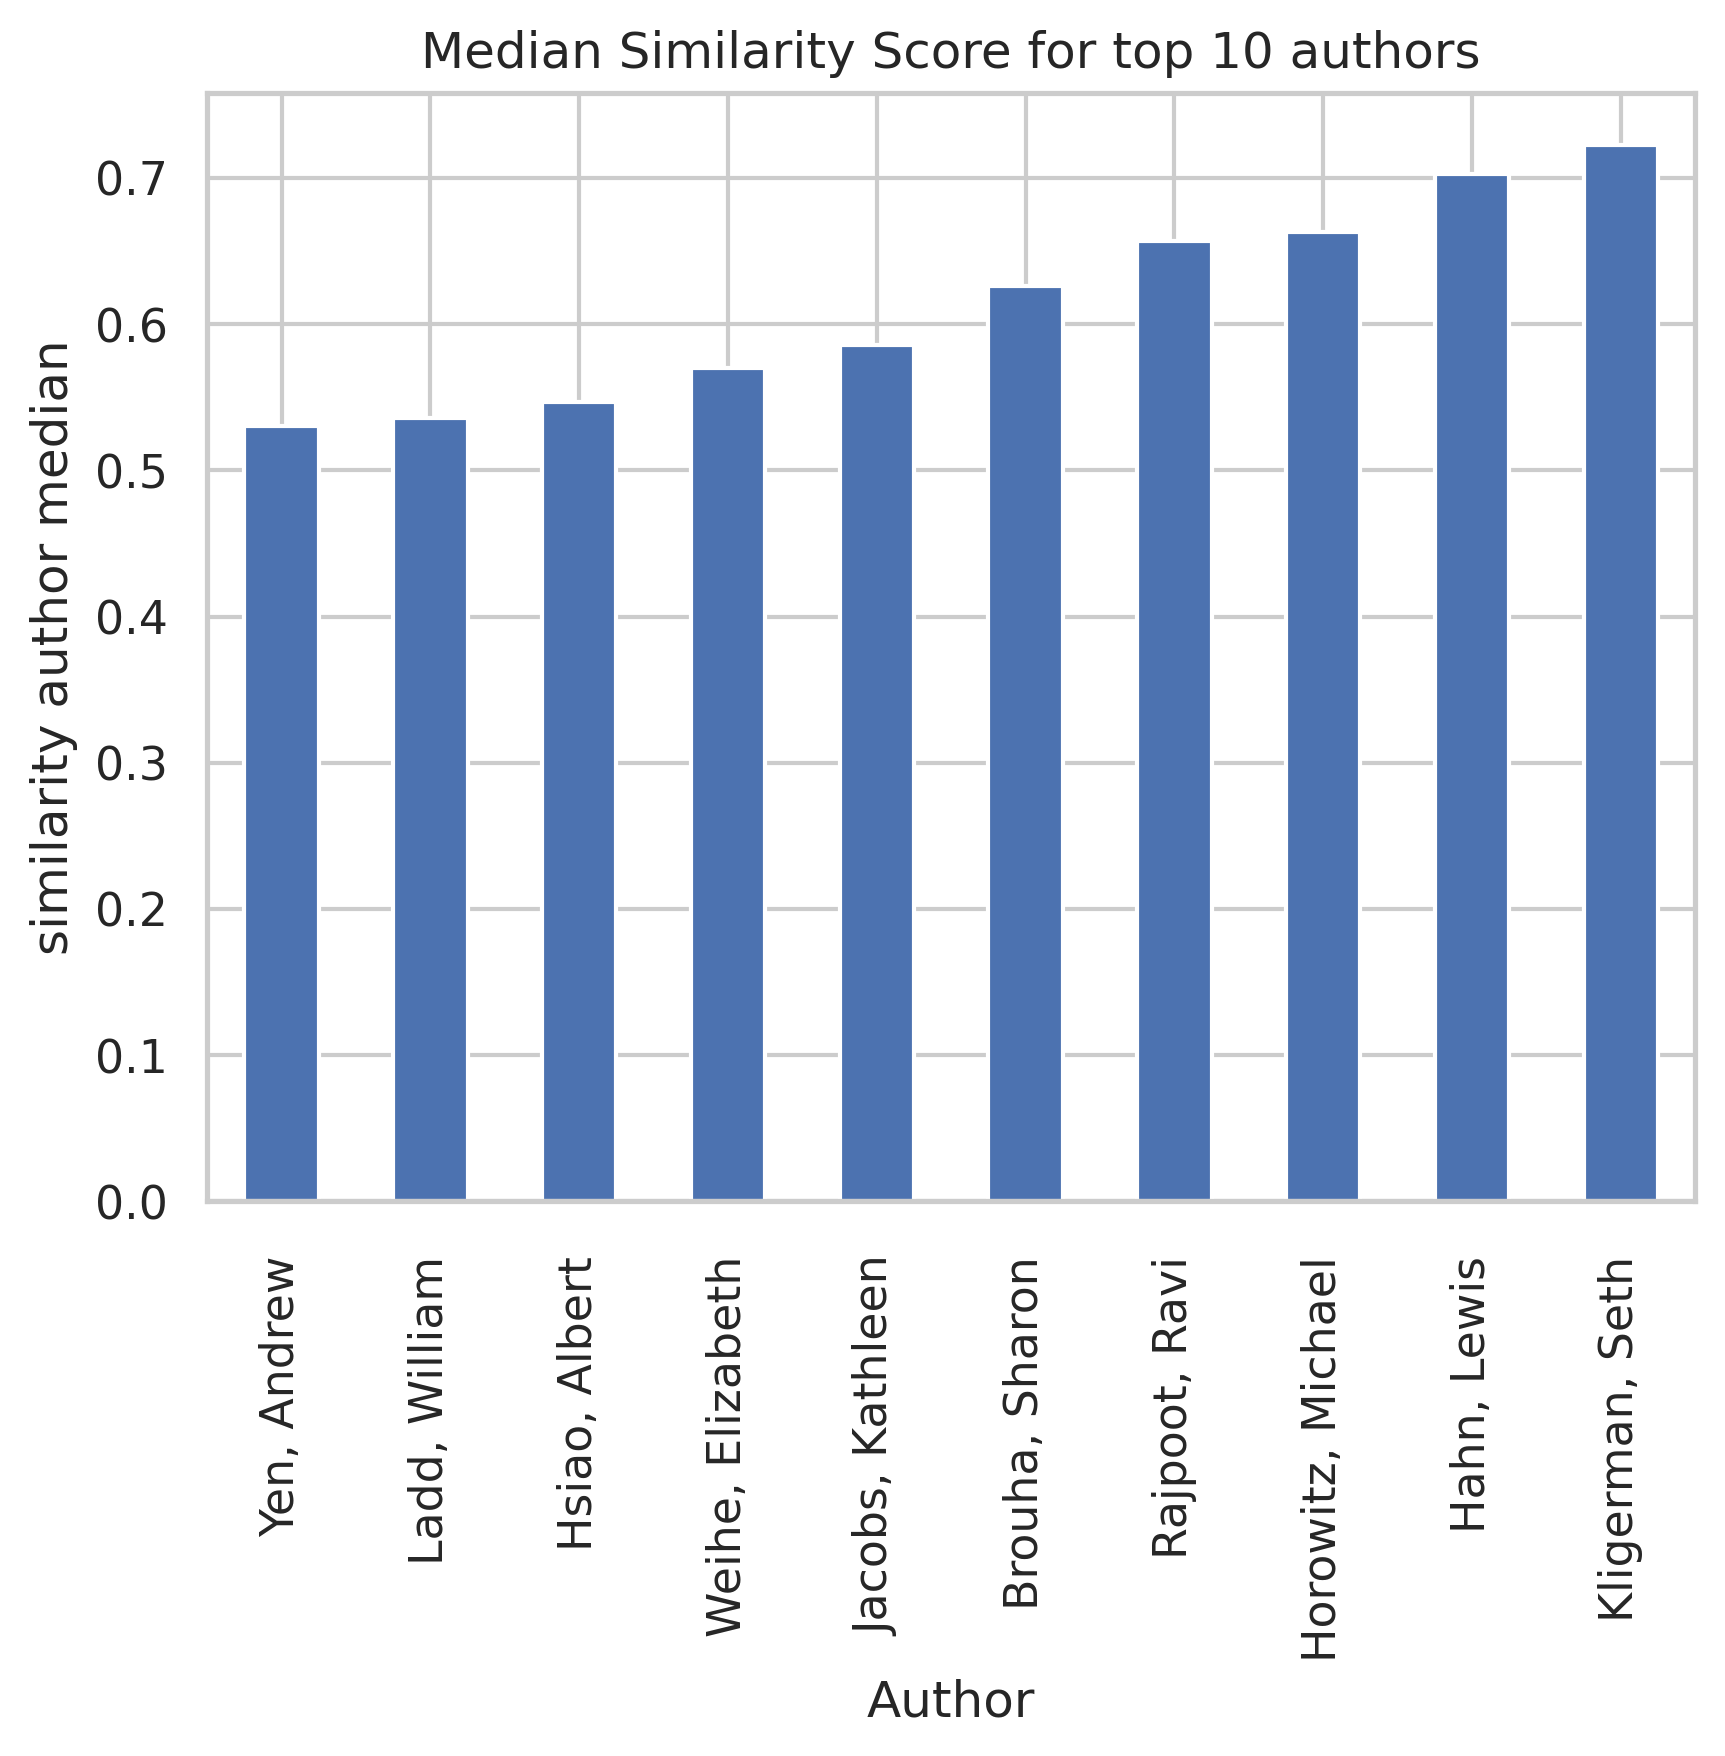
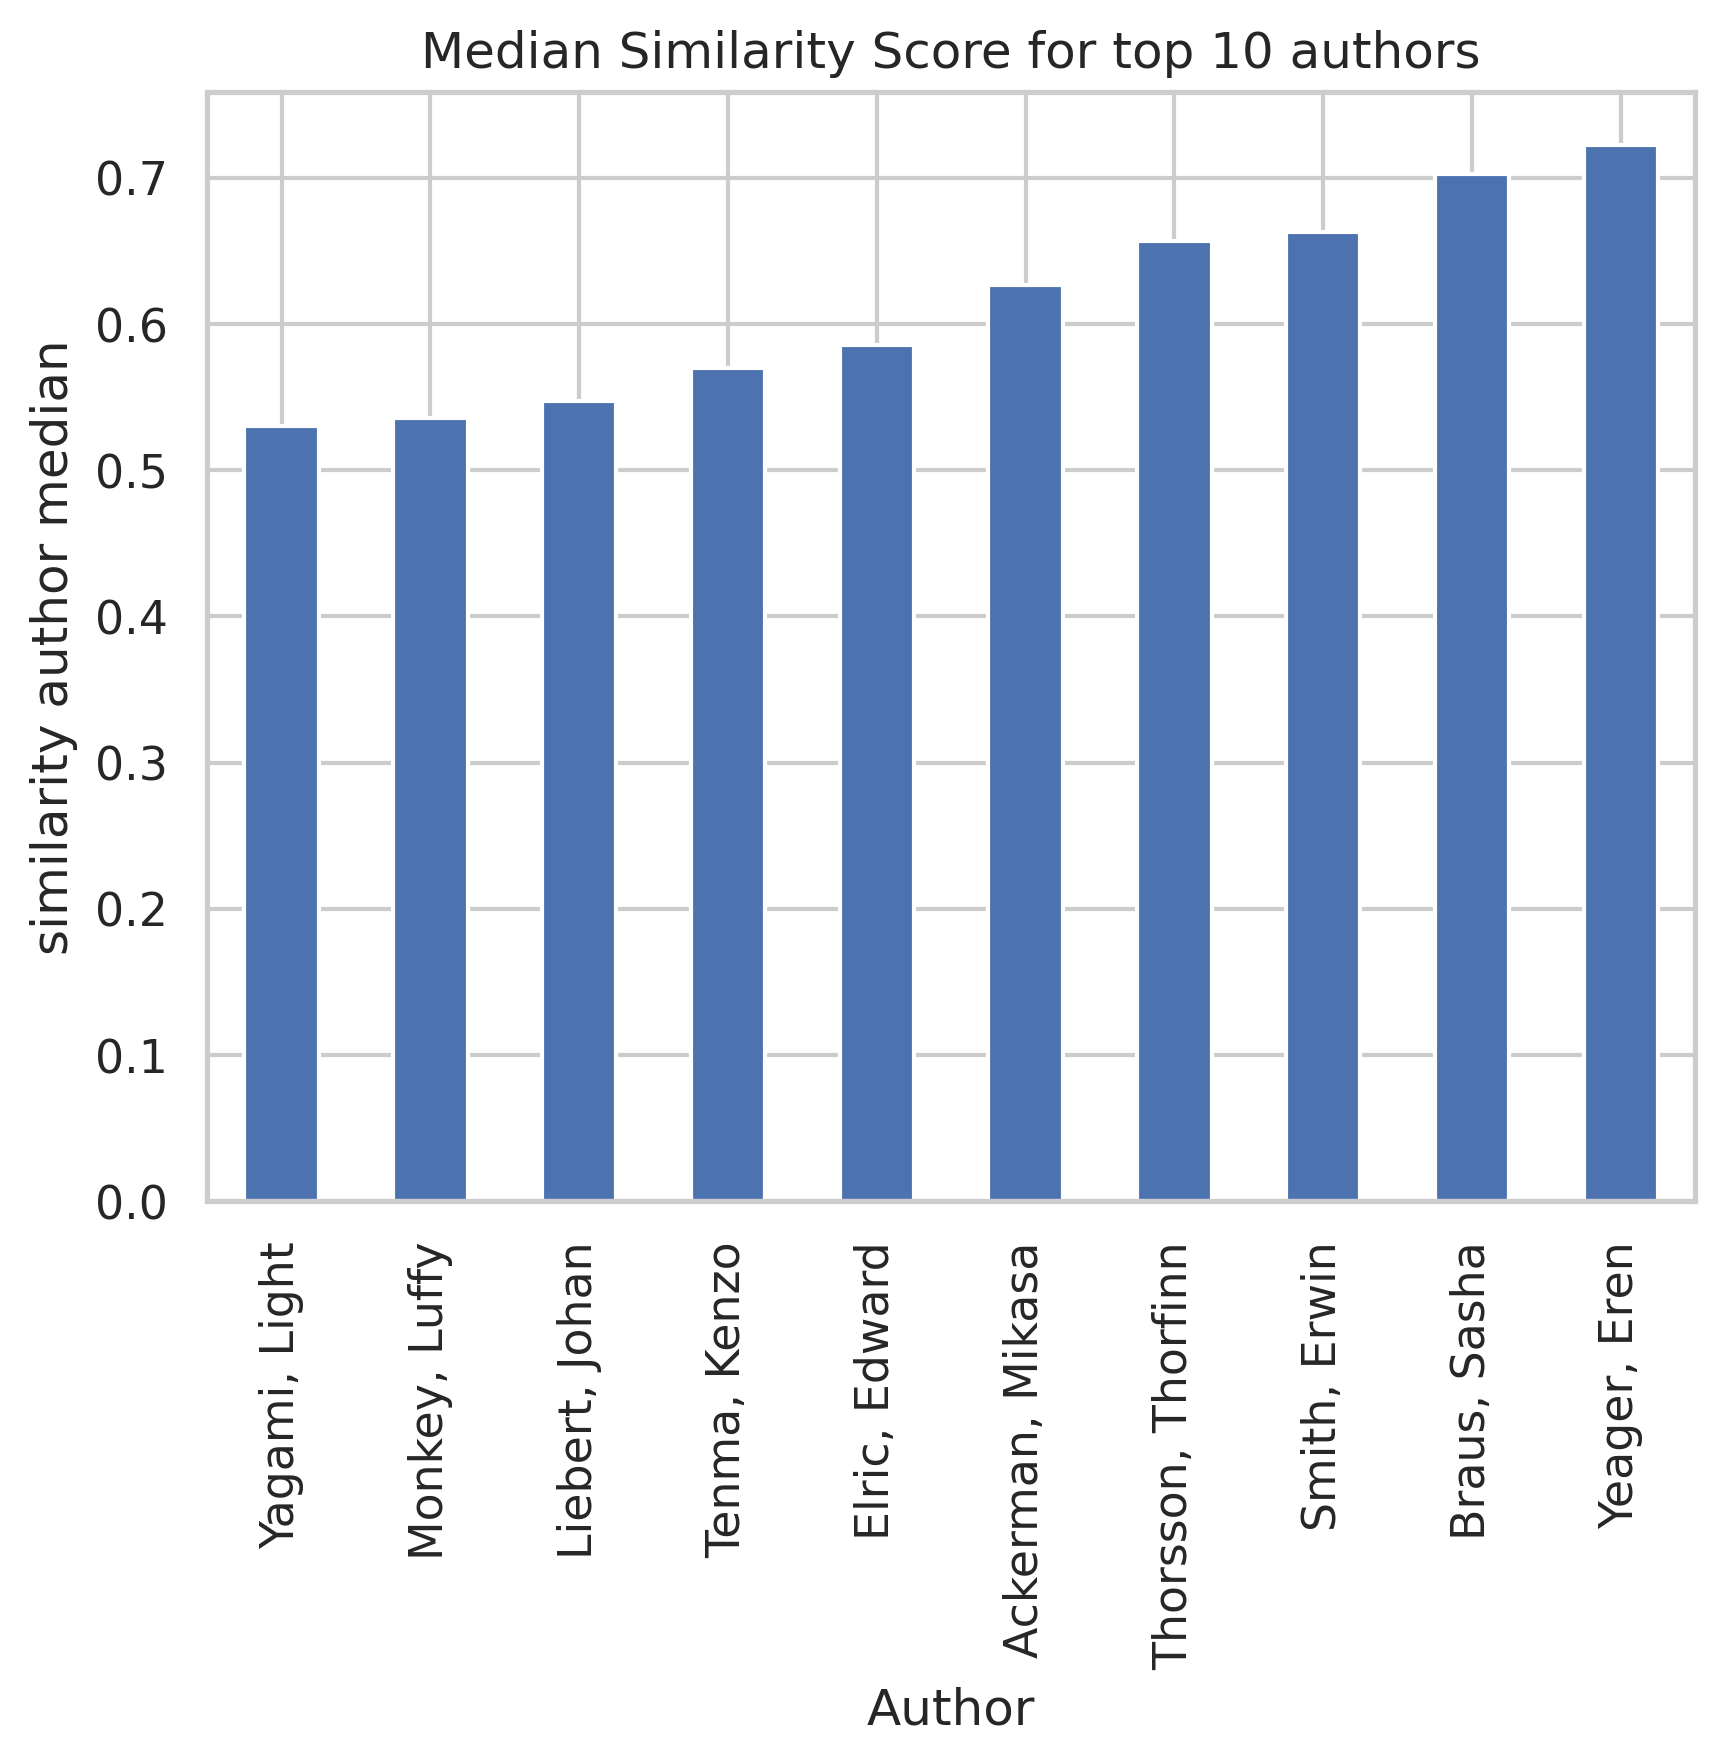
finishing touches

diff --git a/_site/index.html b/_site/index.html
@@ -271,7 +271,9 @@
 
 <h3 id="expert-radiologists">Expert Radiologists</h3>
 
-<p>As presented above, we identified 10 most prominent radiologist readers from our X-rays and reports dataset. They are in combine responsible for 86% of the readings in both the training and testing set.</p>
+<p><img src="./imgs/reading-distribution.png" alt="reading-dist" /></p>
+
+<p>As presented above, we identified 10 most prominent radiologist readers (anonymized with pseudonyms) from our X-rays and reports dataset. They are in combine responsible for 86% of the readings in both the training and testing set.</p>
 
 <h3 id="similarity-between-generated-reports-and-expert-ground-truths">Similarity Between Generated Reports and Expert Ground Truths</h3>
 
@@ -285,48 +287,48 @@
 
 <p><img src="./imgs/top-10-similarity-author-medians.png" alt="top-similarity" /></p>
 
-<p>Presented above is the test-set median cosine similarity scores between the semantic embeddings of LLaVA generated reports and radiologist-provided reports, categorized into each individual radiologist of the top 10 most prominent ones. Most notably, the median score for even the least similar radiologist is still above 0.5, at around 0.53. There are also 5 radiologists that have scores above 0.6, indicating that LLaVA did in fact generate reports in styles similar to original readers’ writing.</p>
+<p>Presented above is the test-set median cosine similarity scores between the semantic embeddings of LLaVA generated reports and radiologist-provided reports, categorized into each radiologist of the top 10 most prominent individual. Most notably, the median score for even the least similar radiologist is still above 0.5, at around 0.53. There are also 5 radiologists that have scores above 0.6, indicating that LLaVA did in fact generate reports in styles similar to original readers’ writing.</p>
 
 <p>Click on each radiologist’s name below to learn more in detail model’s performance with respect to that individual:</p>
 <details>
-  <summary>👨⚕ Dr. Seth Kligerman</summary>
-  <img src="./imgs/Kligerman-similarity.png" />
+  <summary>👨⚕👩⚕ Dr. Eren Yeager</summary>
+  <img src="./imgs/Yeager-similarity.png" />
 </details>
 <details>
-  <summary>👨⚕ Dr. Lewis Hahn</summary>
-  <img src="./imgs/Hahn-similarity.png" />
+  <summary>👨⚕👩⚕ Dr. Sasha Braus</summary>
+  <img src="./imgs/Braus-similarity.png" />
 </details>
 <details>
-  <summary>👨⚕ Dr. Michael Horowitz</summary>
-  <img src="./imgs/Horowitz-similarity.png" />
+  <summary>👨⚕👩⚕ Dr. Erwin Smith</summary>
+  <img src="./imgs/Smith-similarity.png" />
 </details>
 <details>
-  <summary>👨⚕ Dr. Ravi Rajpoot</summary>
-  <img src="./imgs/Rajpoot-similarity.png" />
+  <summary>👨⚕👩⚕ Dr. Thorfinn Thorsson</summary>
+  <img src="./imgs/Thorsson-similarity.png" />
 </details>
 <details>
-  <summary>👩⚕ Dr. Sharon Brouha</summary>
-  <img src="./imgs/Brouha-similarity.png" />
+  <summary>👨⚕👩⚕ Dr. Mikasa Ackerman</summary>
+  <img src="./imgs/Ackerman-similarity.png" />
 </details>
 <details>
-  <summary>👩⚕ Dr. Kathleen Jacobs</summary>
-  <img src="./imgs/Jacobs-similarity.png" />
+  <summary>👨⚕👩⚕ Dr. Edward Elric</summary>
+  <img src="./imgs/Elric-similarity.png" />
 </details>
 <details>
-  <summary>👩⚕ Dr. Elizabeth Weihe</summary>
-  <img src="./imgs/Weihe-similarity.png" />
+  <summary>👨⚕👩⚕ Dr. Kenzo Tenma</summary>
+  <img src="./imgs/Tenma-similarity.png" />
 </details>
 <details>
-  <summary>👨⚕ Dr. Albert Hsiao</summary>
-  <img src="./imgs/Hsiao-similarity.png" />
+  <summary>👨⚕👩⚕ Dr. Johan Liebert</summary>
+  <img src="./imgs/Liebert-similarity.png" />
 </details>
 <details>
-  <summary>👨⚕ Dr. William Ladd</summary>
-  <img src="./imgs/Ladd-similarity.png" />
+  <summary>👨⚕👩⚕ Dr. Luffy Monkey</summary>
+  <img src="./imgs/Monkey-similarity.png" />
 </details>
 <details>
-  <summary>👨⚕ Dr. Andrew Yen</summary>
-  <img src="./imgs/Yen-similarity.png" />
+  <summary>👨⚕👩⚕ Dr. Light Yagami</summary>
+  <img src="./imgs/Yagami-similarity.png" />
 </details>
 
 <h3 id="prompts-constructed">Prompts Constructed</h3>
@@ -362,7 +364,7 @@
 
 <h4 id="quantified-outcomes">Quantified Outcomes</h4>
 
-<div style="padding-top: 10px; text-align:center; width=100%;"><img src="./imgs/roc_curves_final_generic2.png" width="48%" /><img src="./imgs/roc_curves_final.png" width="48%" /></div>
+<div style="padding-top: 20px; text-align:center; width=100%;"><img src="./imgs/roc_curves_final_generic2.png" width="48%" /><img src="./imgs/roc_curves_final.png" width="48%" /></div>
 
 <p>According to the ROC plot on the left, LLaVA’s accuracy in detecting pathological entities when prompted using the generic prompt is no better than random chance (represented by the dotted diagonal line), with the highest area under the curve (AUC) at 0.53 for detecting cardiomegaly in its generated reports.</p>
 
@@ -376,7 +378,16 @@
 
 <p><img src="./imgs/confusion_matrices.png" alt="confusion-matrix" /></p>
 
+<p>As presented by the confusion matrices above with regard to 6 most prominent pathologies present in our dataset, which are cardiomegaly, pleural effusion, edema, pneumothorax, pneumonia, and rib fracture, our model is good at detecting and confirming true negative (labeled negative and predicted to be negative as well) pathology entities, as exemplified by the darker bottom right quadrant. However, it is not very effective in detecting true positive cases, with the number of true positives identified to be the least among all four quadrants for all 6 pathologies. It is also worth noting that this skew in performance might be hindered due to the intrinsic imbalance in our data. As an example, there are very few true labels for rib fracture, as shown in the last confusion matrix, because this condition is rare in practice. Hence the model likely did not learn enough feature representations of rib fracture to make a good prediction in the first place.</p>
+
 <h2 id="future-directions">Future Directions</h2>
+
+<ul>
+  <li>Do an ablation study and remove a part of the context and see the contribution that each part of the context affects the outputs of the model.</li>
+  <li>Remove the vision encoder and train just the language model Vicuna-13b to see how much LLaVA’s report generation is influenced by the image features.</li>
+  <li>Change the vision encoder tower since the pretrained CLIP ViT-L/14 is only trained on general-purpose images and text labels.</li>
+  <li>Test out different adapter models other the Multilayer Perceptron used in the current LLaVA architecture, such as Query Transformer presented in BLIP-2.</li>
+</ul>
 
 <h2 id="references">References</h2>
 

diff --git a/_site/sw.js b/_site/sw.js
@@ -1,4 +1,4 @@
-const version = '20240315012123';
+const version = '20240315062119';
 const cacheName = `static::${version}`;
 
 const buildContentBlob = () => {

diff --git a/index.md b/index.md
@@ -49,7 +49,9 @@ In this section, we will present the insights obtained from analyzing the radiog
 
 ### Expert Radiologists
 
-As presented above, we identified 10 most prominent radiologist readers from our X-rays and reports dataset. They are in combine responsible for 86% of the readings in both the training and testing set.
+![reading-dist](./imgs/reading-distribution.png)
+
+As presented above, we identified 10 most prominent radiologist readers (anonymized with pseudonyms) from our X-rays and reports dataset. They are in combine responsible for 86% of the readings in both the training and testing set.
 
 ### Similarity Between Generated Reports and Expert Ground Truths
 
@@ -63,48 +65,48 @@ The above two figures instead present the length in number of characters of radi
 
 ![top-similarity](./imgs/top-10-similarity-author-medians.png)
 
-Presented above is the test-set median cosine similarity scores between the semantic embeddings of LLaVA generated reports and radiologist-provided reports, categorized into each individual radiologist of the top 10 most prominent ones. Most notably, the median score for even the least similar radiologist is still above 0.5, at around 0.53. There are also 5 radiologists that have scores above 0.6, indicating that LLaVA did in fact generate reports in styles similar to original readers' writing.
+Presented above is the test-set median cosine similarity scores between the semantic embeddings of LLaVA generated reports and radiologist-provided reports, categorized into each radiologist of the top 10 most prominent individual. Most notably, the median score for even the least similar radiologist is still above 0.5, at around 0.53. There are also 5 radiologists that have scores above 0.6, indicating that LLaVA did in fact generate reports in styles similar to original readers' writing.
 
 Click on each radiologist's name below to learn more in detail model's performance with respect to that individual:
 <details>
-  <summary>👨⚕ Dr. Seth Kligerman</summary>
-  <img src="./imgs/Kligerman-similarity.png"/>
+  <summary>👨⚕👩⚕ Dr. Eren Yeager</summary>
+  <img src="./imgs/Yeager-similarity.png"/>
 </details>
 <details>
-  <summary>👨⚕ Dr. Lewis Hahn</summary>
-  <img src="./imgs/Hahn-similarity.png"/>
+  <summary>👨⚕👩⚕ Dr. Sasha Braus</summary>
+  <img src="./imgs/Braus-similarity.png"/>
 </details>
 <details>
-  <summary>👨⚕ Dr. Michael Horowitz</summary>
-  <img src="./imgs/Horowitz-similarity.png"/>
+  <summary>👨⚕👩⚕ Dr. Erwin Smith</summary>
+  <img src="./imgs/Smith-similarity.png"/>
 </details>
 <details>
-  <summary>👨⚕ Dr. Ravi Rajpoot</summary>
-  <img src="./imgs/Rajpoot-similarity.png"/>
+  <summary>👨⚕👩⚕ Dr. Thorfinn Thorsson</summary>
+  <img src="./imgs/Thorsson-similarity.png"/>
 </details>
 <details>
-  <summary>👩⚕ Dr. Sharon Brouha</summary>
-  <img src="./imgs/Brouha-similarity.png"/>
+  <summary>👨⚕👩⚕ Dr. Mikasa Ackerman</summary>
+  <img src="./imgs/Ackerman-similarity.png"/>
 </details>
 <details>
-  <summary>👩⚕ Dr. Kathleen Jacobs</summary>
-  <img src="./imgs/Jacobs-similarity.png"/>
+  <summary>👨⚕👩⚕ Dr. Edward Elric</summary>
+  <img src="./imgs/Elric-similarity.png"/>
 </details>
 <details>
-  <summary>👩⚕ Dr. Elizabeth Weihe</summary>
-  <img src="./imgs/Weihe-similarity.png"/>
+  <summary>👨⚕👩⚕ Dr. Kenzo Tenma</summary>
+  <img src="./imgs/Tenma-similarity.png"/>
 </details>
 <details>
-  <summary>👨⚕ Dr. Albert Hsiao</summary>
-  <img src="./imgs/Hsiao-similarity.png"/>
+  <summary>👨⚕👩⚕ Dr. Johan Liebert</summary>
+  <img src="./imgs/Liebert-similarity.png"/>
 </details>
 <details>
-  <summary>👨⚕ Dr. William Ladd</summary>
-  <img src="./imgs/Ladd-similarity.png"/>
+  <summary>👨⚕👩⚕ Dr. Luffy Monkey</summary>
+  <img src="./imgs/Monkey-similarity.png"/>
 </details>
 <details>
-  <summary>👨⚕ Dr. Andrew Yen</summary>
-  <img src="./imgs/Yen-similarity.png">
+  <summary>👨⚕👩⚕ Dr. Light Yagami</summary>
+  <img src="./imgs/Yagami-similarity.png">
 </details>
 
 ### Prompts Constructed
@@ -140,7 +142,7 @@ Then, when we prompted LLaVA with the context-embedded prompt, we can see that L
 
 #### Quantified Outcomes
 
-<div style="padding-top: 10px; text-align:center; width=100%;"><img src="./imgs/roc_curves_final_generic2.png" width="48%"/><img src="./imgs/roc_curves_final.png" width="48%"/></div>
+<div style="padding-top: 20px; text-align:center; width=100%;"><img src="./imgs/roc_curves_final_generic2.png" width="48%"/><img src="./imgs/roc_curves_final.png" width="48%"/></div>
 
 According to the ROC plot on the left, LLaVA's accuracy in detecting pathological entities when prompted using the generic prompt is no better than random chance (represented by the dotted diagonal line), with the highest area under the curve (AUC) at 0.53 for detecting cardiomegaly in its generated reports.
 
@@ -154,7 +156,14 @@ The histogram on the left represents the test-set cosine similarity scores betwe
 
 ![confusion-matrix](./imgs/confusion_matrices.png)
 
+As presented by the confusion matrices above with regard to 6 most prominent pathologies present in our dataset, which are cardiomegaly, pleural effusion, edema, pneumothorax, pneumonia, and rib fracture, our model is good at detecting and confirming true negative (labeled negative and predicted to be negative as well) pathology entities, as exemplified by the darker bottom right quadrant. However, it is not very effective in detecting true positive cases, with the number of true positives identified to be the least among all four quadrants for all 6 pathologies. It is also worth noting that this skew in performance might be hindered due to the intrinsic imbalance in our data. As an example, there are very few true labels for rib fracture, as shown in the last confusion matrix, because this condition is rare in practice. Hence the model likely did not learn enough feature representations of rib fracture to make a good prediction in the first place.
+
 ## Future Directions
+
+- Do an ablation study and remove a part of the context and see the contribution that each part of the context affects the outputs of the model.
+- Remove the vision encoder and train just the language model Vicuna-13b to see how much LLaVA’s report generation is influenced by the image features.
+- Change the vision encoder tower since the pretrained CLIP ViT-L/14 is only trained on general-purpose images and text labels.
+- Test out different adapter models other the Multilayer Perceptron used in the current LLaVA architecture, such as Query Transformer presented in BLIP-2.
 
 ## References
 
